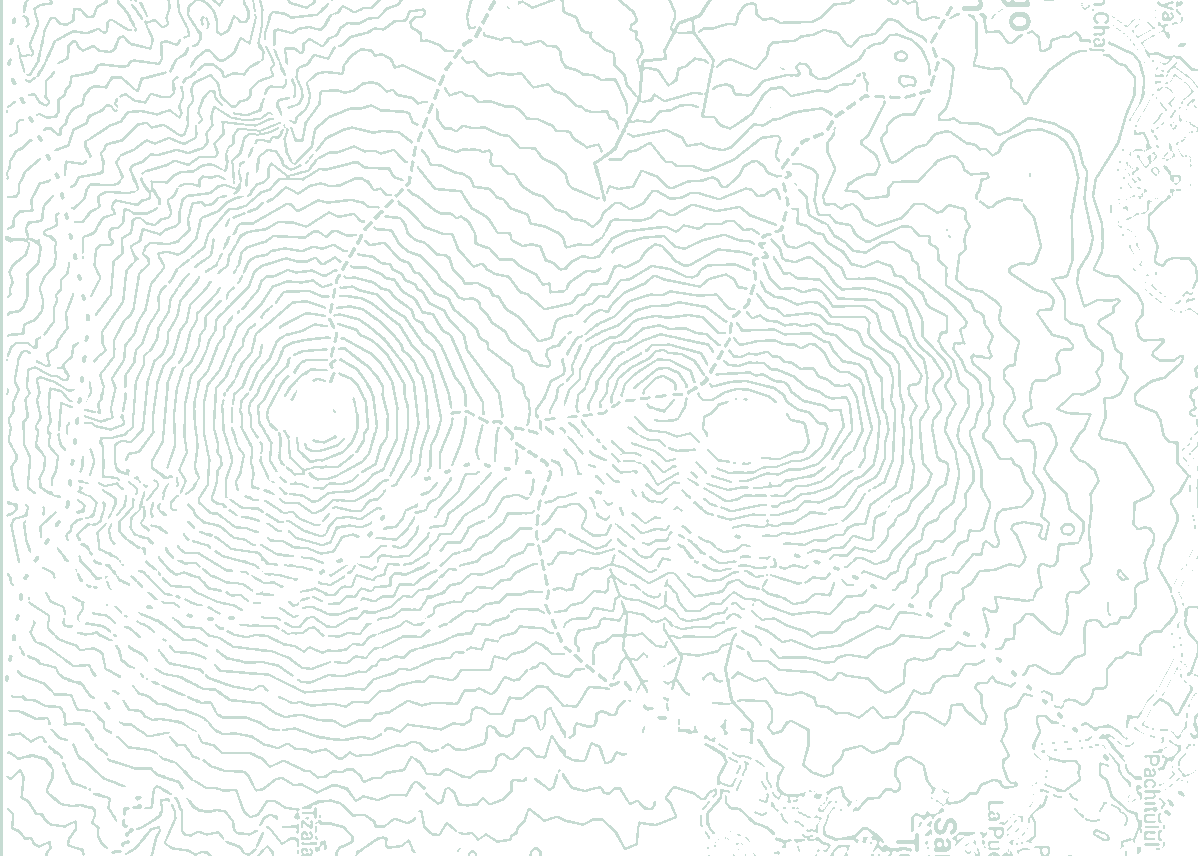
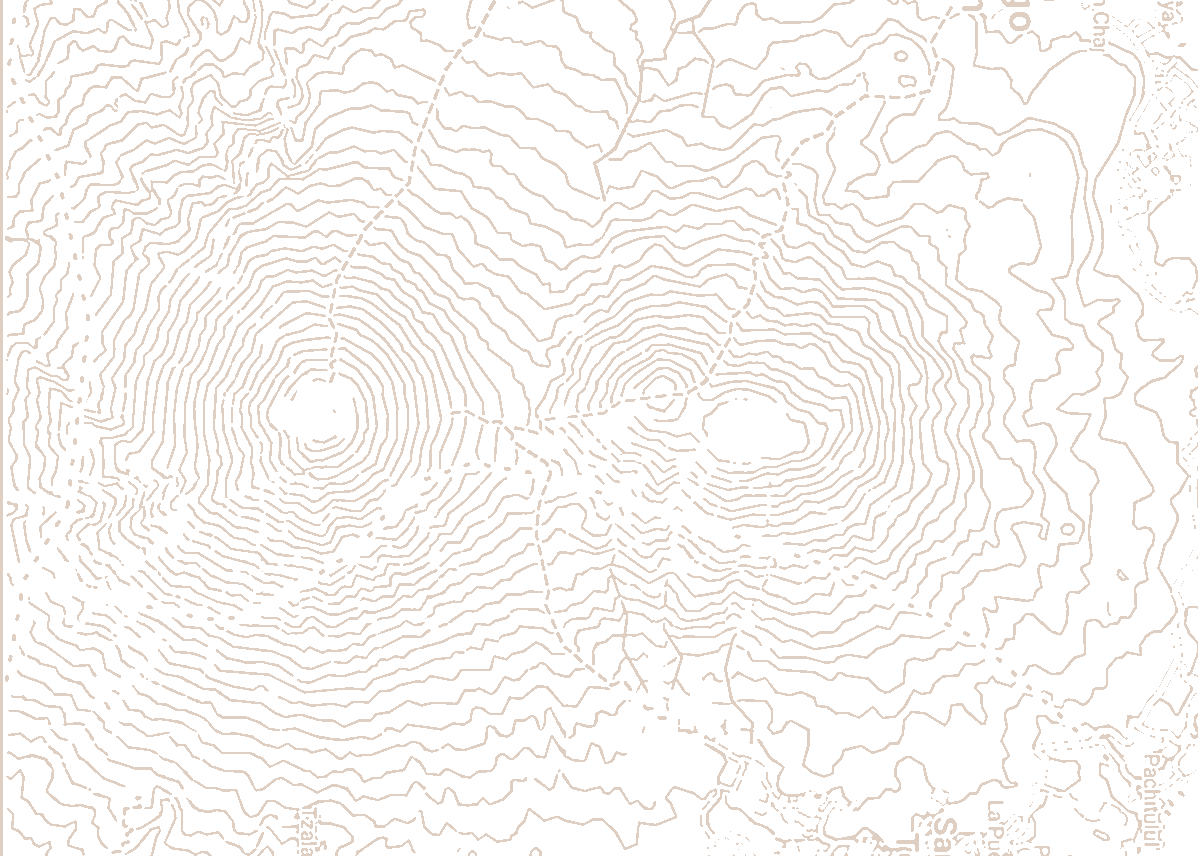
Add files via upload

diff --git a/index.html b/index.html
@@ -32,18 +32,19 @@
   .contours{position:absolute;inset:0;z-index:0;pointer-events:none;
     background-image:url('contours.png');background-size:cover;background-position:center;opacity:.85}
   .splash .inner{position:relative;z-index:1;max-width:660px;margin:0 auto;padding:6vh 32px;width:100%}
+  .splash .inner .panel{background:rgba(251,250,243,.55);border-radius:14px;padding:40px 44px;
+    backdrop-filter:blur(1.5px);-webkit-backdrop-filter:blur(1.5px)}
 
   .brandrow{display:flex;align-items:center;gap:22px;flex-wrap:wrap;margin-bottom:30px}
   .portrait{width:96px;height:96px;border-radius:50%;object-fit:cover;flex:none;box-shadow:0 0 0 4px var(--cloud),0 6px 20px rgba(31,61,46,.25)}
-  .brandrow .names h1{margin:0;font-size:clamp(38px,6vw,54px);font-weight:700;line-height:1;letter-spacing:-.02em;text-shadow:0 1px 3px rgba(251,250,243,.9),0 0 18px rgba(251,250,243,.8)}
+  .brandrow .names h1{margin:0;font-size:clamp(38px,6vw,54px);font-weight:700;line-height:1;letter-spacing:-.02em}
   .brandrow .names h1 .gloss{font-weight:400;font-style:italic;font-size:.46em;color:var(--emerald)}
   .brandrow .names .byline{margin:8px 0 0;font-size:15px;font-style:italic;color:var(--ink-soft)}
 
-  .welcome{font-size:19px;line-height:1.74;color:var(--ink);max-width:600px;
-    text-shadow:0 1px 2px rgba(251,250,243,.9),0 0 14px rgba(251,250,243,.85)}
+  .welcome{font-size:19px;line-height:1.74;color:var(--ink);max-width:600px}
   .welcome em{font-style:italic}
   .welcome .vamos{color:var(--emerald);font-weight:600;font-style:italic}
-  .coord-tag{margin-top:26px;font-size:12px;letter-spacing:.06em;color:var(--ink-faint);font-variant-numeric:tabular-nums;text-shadow:0 1px 2px rgba(251,250,243,.9)}
+  .coord-tag{margin-top:26px;font-size:12px;letter-spacing:.06em;color:var(--ink-faint);font-variant-numeric:tabular-nums}
 
   .scroll-cue{position:absolute;bottom:22px;left:0;right:0;text-align:center;color:var(--ink-faint);font-size:13px;font-style:italic;letter-spacing:.04em;z-index:1}
   .scroll-cue .arrow{display:block;margin:8px auto 0;width:18px;height:18px;border-right:2px solid var(--ink-faint);border-bottom:2px solid var(--ink-faint);transform:rotate(45deg);opacity:.55}
@@ -117,6 +118,7 @@
     <div class="contours" aria-hidden="true"></div>
 
     <div class="inner">
+      <div class="panel">
       <div class="brandrow">
         <img class="portrait" src="pat.jpg" alt="Pat outdoors, with mountains and water behind him">
         <div class="names">
@@ -128,18 +130,19 @@
       <div class="welcome">
         My friend, thank you for being here. <em>Andares</em> means wandering, and that's all this is. I've been a <em>map guy</em> for so long. Now getting lost, in a place, an emotion, an experience, is the work. This is a mashup of those worlds: letting go of the path (whatever that is), still noticing all the beauty and vibrancy around me, and sharing it with you! <span class="vamos">¿Vamos?</span>
       </div>
-      <p class="coord-tag">◆ now wandering · 15.09° N, 90.42° W · Guatemala</p>
+      <p class="coord-tag">◆ somewhere near · 15.09° N, 90.42° W</p>
+      </div>
     </div>
   </section>
 
   <section class="mapzone" aria-label="Map of all wanderings">
-    <p class="mlabel">The whole wander</p>
+    <p class="mlabel">Everywhere (so far)</p>
     <p class="msub">Every place, and the thread between them. Tap a pin to open what came there.</p>
     <div id="map" role="region" aria-label="Topographic map of all wandering locations"></div>
   </section>
 
   <section class="wanderings" aria-label="Wanderings">
-    <p class="section-head">Wanderings</p>
+    <p class="section-head">Noticings</p>
 
     <article class="entry-stub" style="--pc:#3a7ca5">
       <p class="meta"><span class="place">Anderson Flats, BC</span> · late summer</p>
@@ -159,7 +162,7 @@
   <div class="entryview" id="entryview" role="dialog" aria-modal="true" aria-label="Entry">
     <div class="ev-inner">
       <div class="ev-read">
-        <button class="ev-back" id="evBack">back to the wander</button>
+        <button class="ev-back" id="evBack">back</button>
         <p class="ev-meta"><span class="ev-place" id="evPlace"></span></p>
         <p class="ev-coords" id="evCoords"></p>
         <h1 class="ev-title" id="evTitle"></h1>
@@ -213,7 +216,7 @@ function openEntry(id){
   if(e.stanzas){
     body.innerHTML=e.stanzas.map(s=>'<div class="stanza">'+s.t+'<span class="refrain">— '+s.r+'</span></div>').join("");
   }else{
-    body.innerHTML='<p style="font-style:italic;color:#7c9184">This wandering hasn\u2019t been written yet. Soon.</p>';
+    body.innerHTML='<p style="font-style:italic;color:#7c9184">Not written yet. Soon.</p>';
   }
   const ev=document.getElementById("entryview");ev.classList.add("open");
   document.body.style.overflow="hidden";
